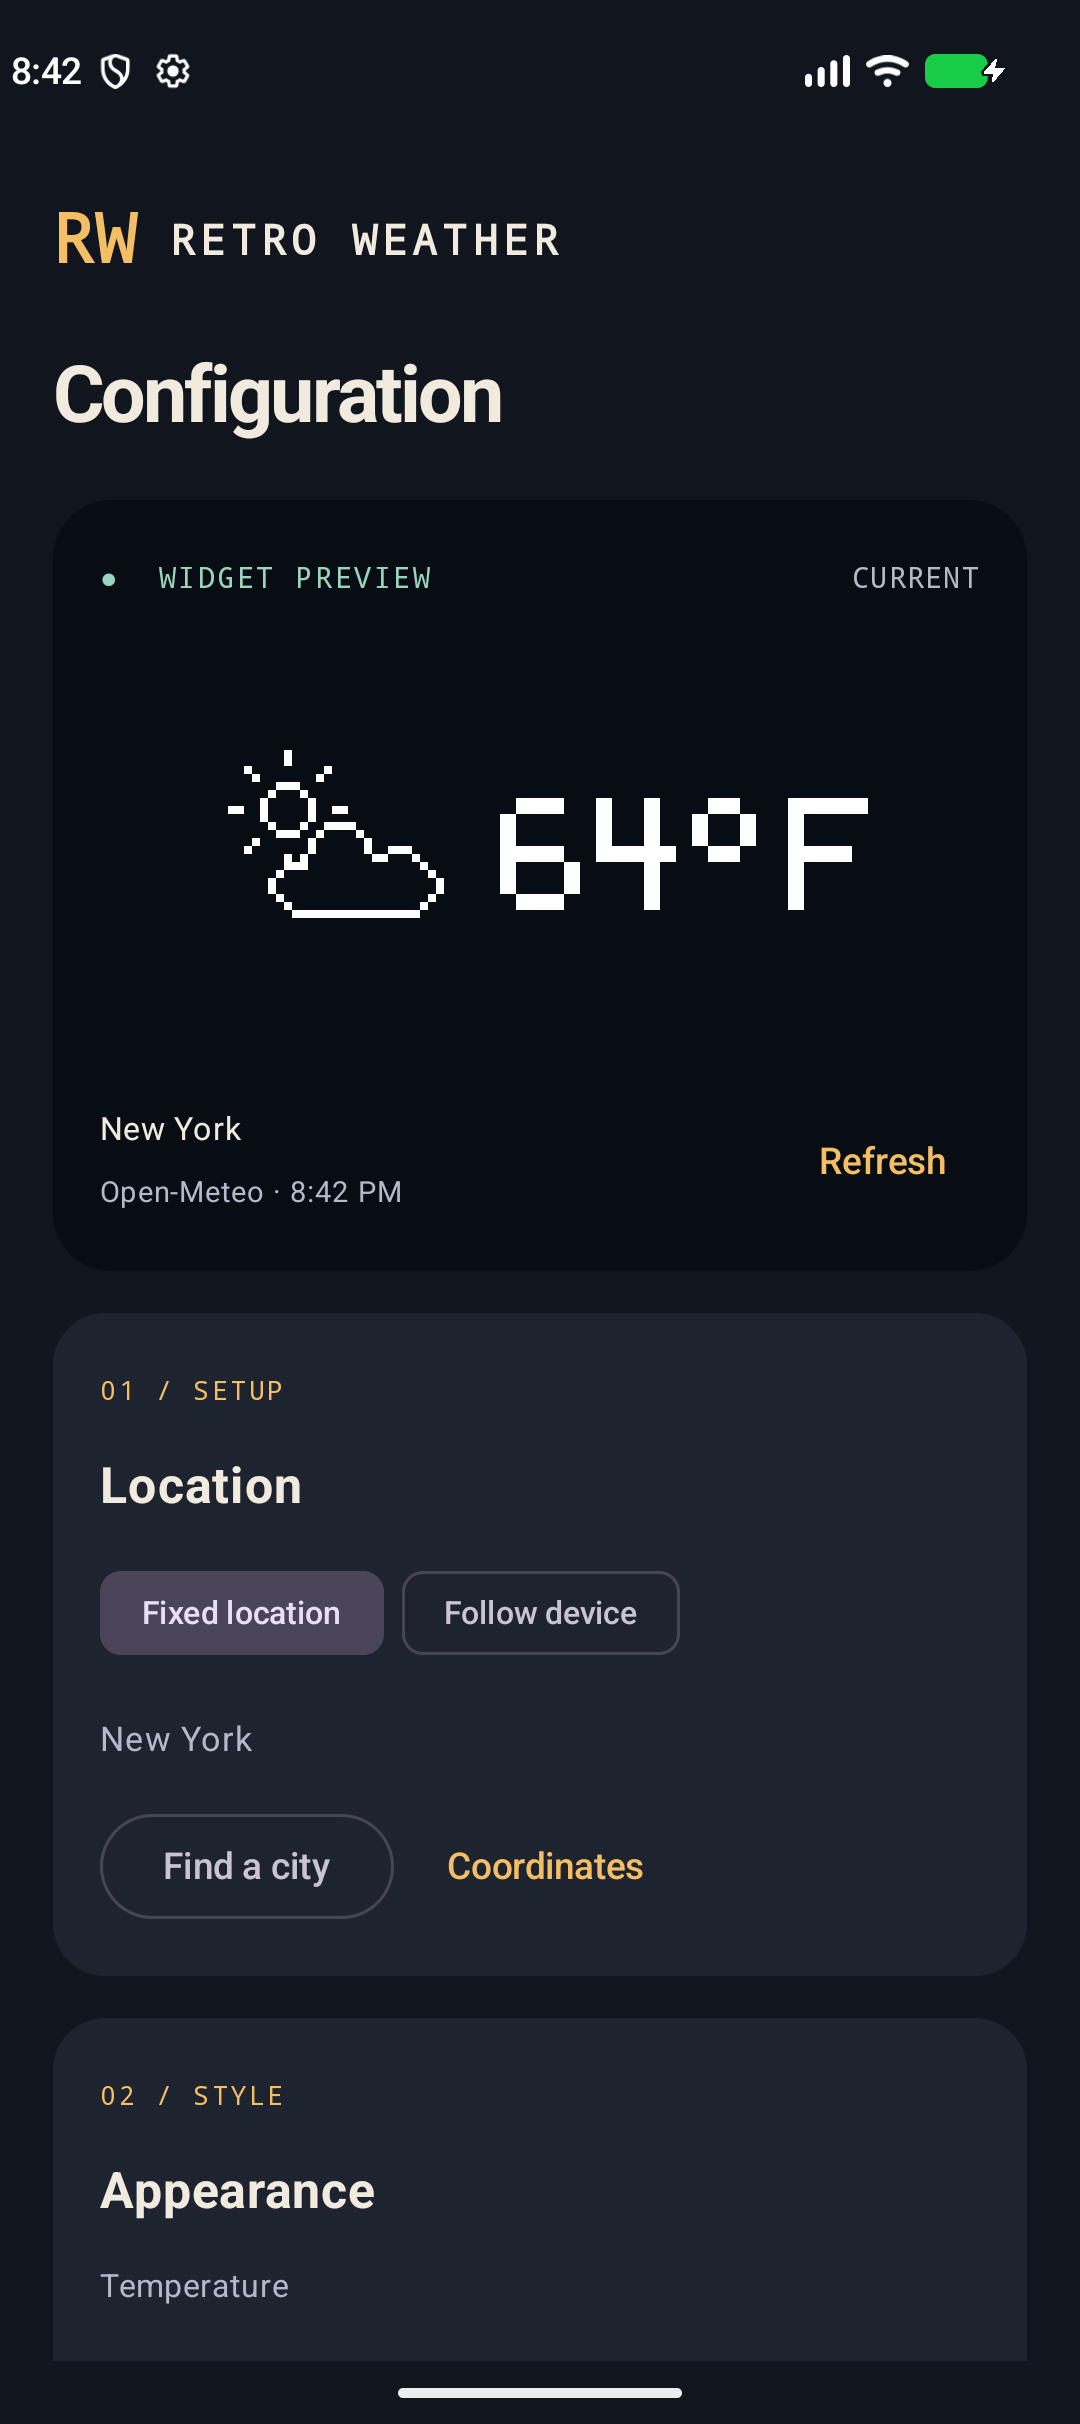
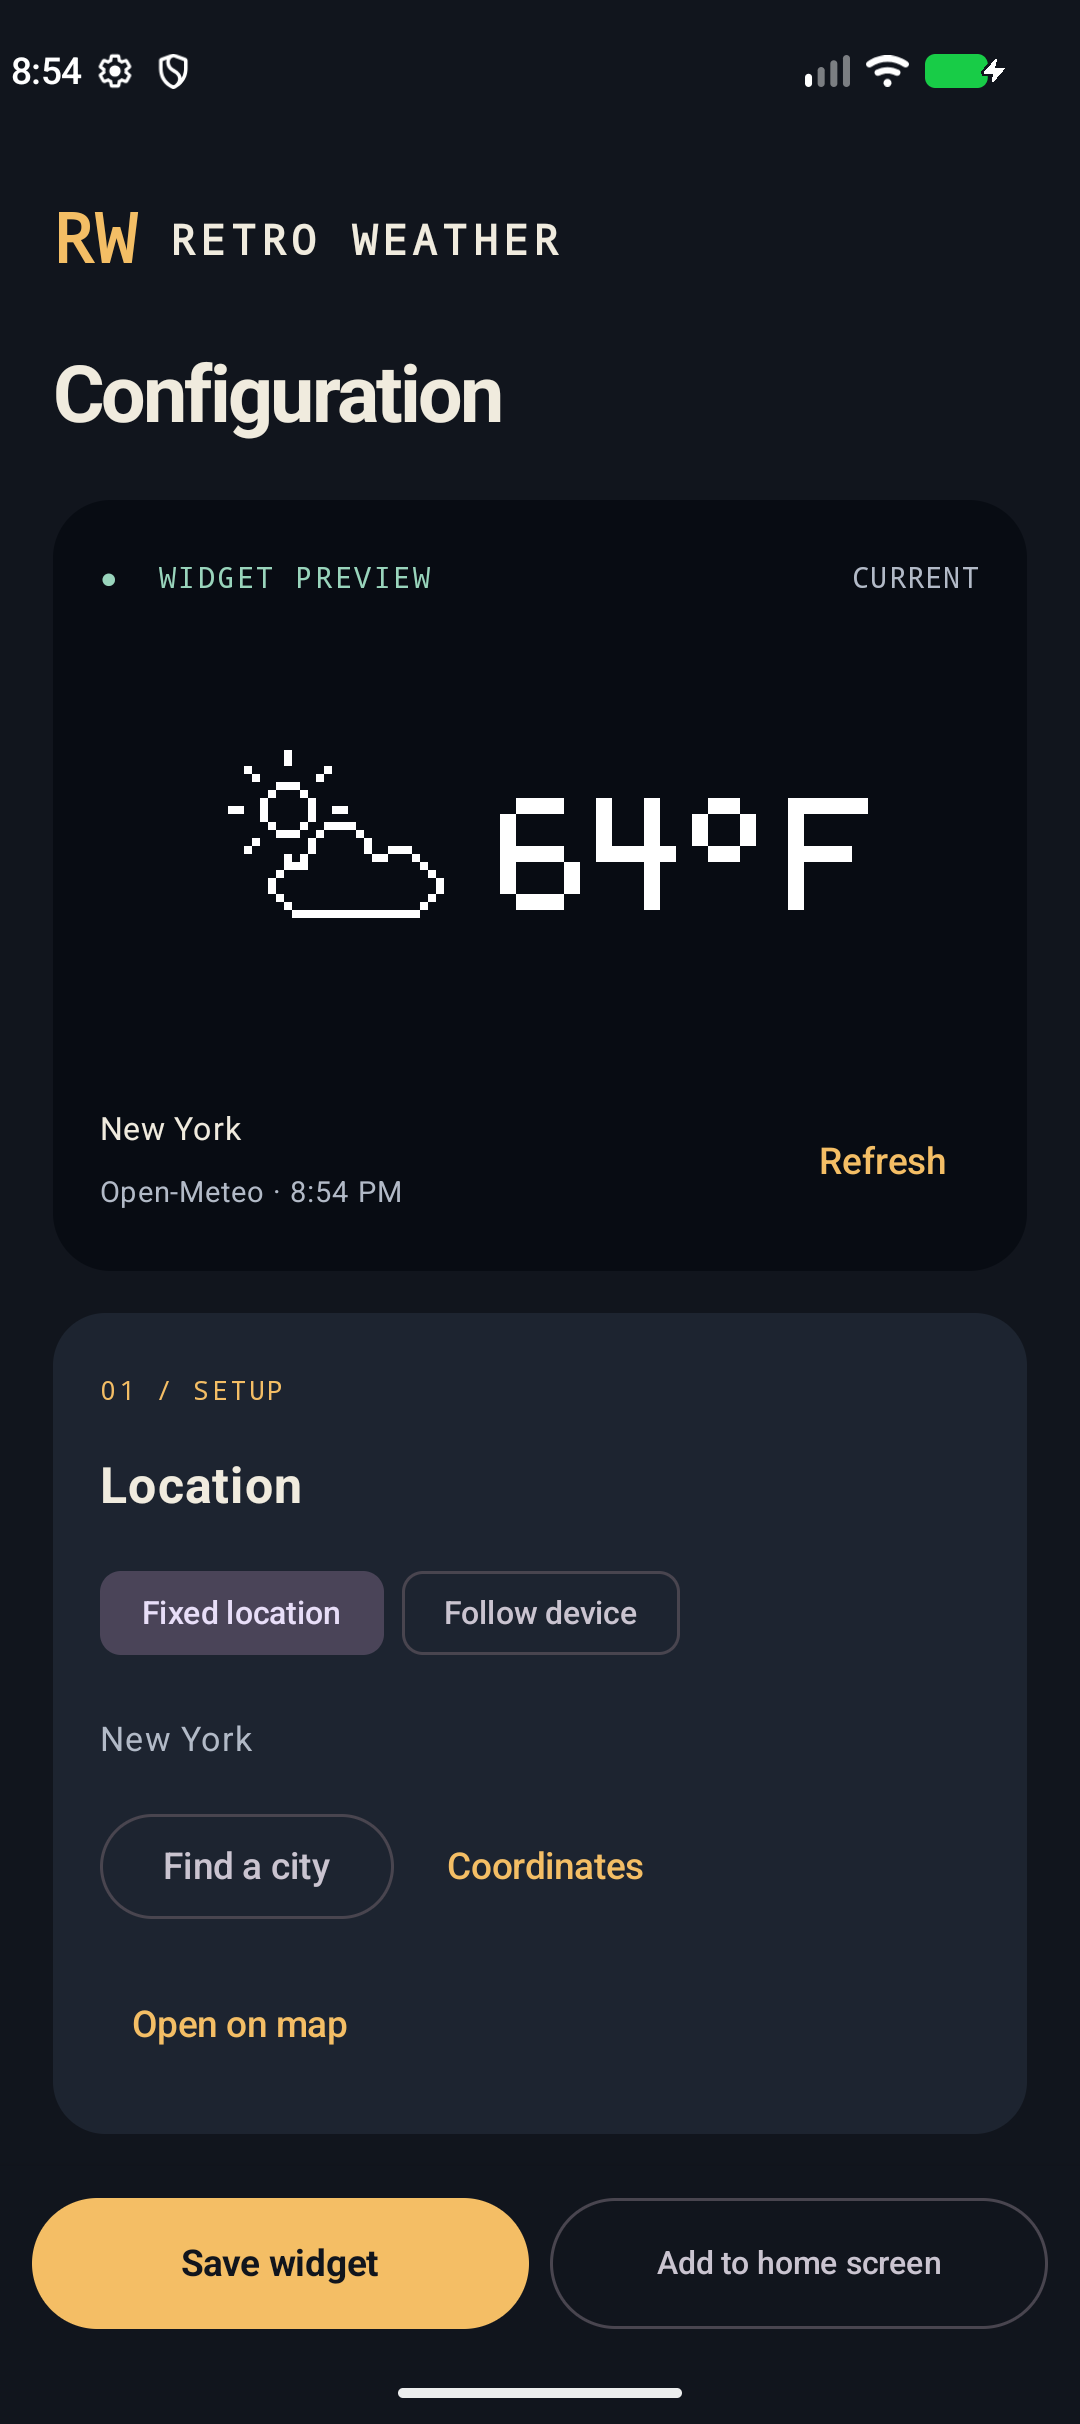
add tests, images, update readme

diff --git a/app/src/androidTest/java/com/retroweather/IntegrationTests.kt b/app/src/androidTest/java/com/retroweather/IntegrationTests.kt
@@ -1,5 +1,9 @@
 package com.retroweather
 
+import androidx.compose.ui.test.*
+import androidx.compose.ui.test.junit4.createEmptyComposeRule
+import org.junit.Rule
+
 import android.appwidget.AppWidgetManager
 import android.content.ComponentName
 import android.content.Context
@@ -26,6 +30,7 @@ import java.io.File
 
 @RunWith(AndroidJUnit4::class)
 class IntegrationTests {
+    @get:Rule val compose = createEmptyComposeRule()
     private val instrumentation = InstrumentationRegistry.getInstrumentation()
     private val context get() = instrumentation.targetContext
     private val store get() = AppStore(context)
@@ -116,21 +121,14 @@ class IntegrationTests {
         store.saveWeather(fresh())
         context.startActivity(Intent(context, MainActivity::class.java).addFlags(Intent.FLAG_ACTIVITY_NEW_TASK or Intent.FLAG_ACTIVITY_CLEAR_TASK))
         val device = UiDevice.getInstance(instrumentation)
-        assertTrue(device.wait(Until.hasObject(By.text("Configuration")), 10_000))
+        assertTrue(device.wait(Until.hasObject(By.text("Configuration")), 30_000))
         device.waitForIdle()
         device.takeScreenshot(File(context.getExternalFilesDir(null), "configuration.png"))
         export("configuration.png")
         // Scroll the real Compose screen and inspect first-release shortcut controls.
-        repeat(12) {
-            if (!device.hasObject(By.text("Choose app"))) {
-                // Avoid the horizontal carousels and widget selector inside the vertical screen.
-                device.swipe(24, device.displayHeight * 4 / 5, 24, device.displayHeight / 4, 35)
-                device.waitForIdle()
-            }
-        }
-        assertNotNull(device.findObject(By.text("Choose app")))
-        device.findObject(By.text("Choose app")).click()
-        assertTrue(device.wait(Until.hasObject(By.text("Choose tap shortcut")), 5000))
+        compose.onNodeWithTag("configuration-scroll").performScrollToNode(hasText("Choose app"))
+        compose.onNodeWithText("Choose app").assertIsDisplayed().performClick()
+        compose.onNodeWithText("Choose tap shortcut").assertIsDisplayed()
         device.pressBack()
     }
     private fun export(name: String) {

diff --git a/app/src/main/java/com/retroweather/MainActivity.kt b/app/src/main/java/com/retroweather/MainActivity.kt
@@ -1,5 +1,7 @@
 package com.retroweather
 
+import androidx.compose.ui.platform.testTag
+
 import android.Manifest
 import android.app.PendingIntent
 import android.appwidget.AppWidgetManager
@@ -204,7 +206,7 @@ class MainActivity : ComponentActivity() {
                 }
             }
         }) { insets ->
-        Column(Modifier.fillMaxSize().padding(insets).consumeWindowInsets(insets).verticalScroll(rememberScrollState()).padding(horizontal = 20.dp)) {
+        Column(Modifier.fillMaxSize().padding(insets).consumeWindowInsets(insets).testTag("configuration-scroll").verticalScroll(rememberScrollState()).padding(horizontal = 20.dp)) {
             Spacer(Modifier.height(22.dp))
             Row(verticalAlignment = Alignment.CenterVertically) {
                 Text("RW", color = Amber, fontFamily = FontFamily.Monospace, fontWeight = FontWeight.Black, fontSize = 26.sp)
@@ -279,7 +281,7 @@ class MainActivity : ComponentActivity() {
                 Toggle("Temperature", config.showTemperature) { if (it || config.showIcon) change(config.copy(showTemperature = it)) }
                 Label("Scale · ${(config.scale * 100).toInt()}%")
                 Slider(config.scale, onValueChange = { change(config.copy(scale = it)) }, valueRange = 0.4f..1f, steps = 5)
-                Row(Modifier.horizontalScroll(rememberScrollState()), horizontalArrangement = Arrangement.spacedBy(8.dp)) {
+                FlowRow(Modifier.fillMaxWidth(), horizontalArrangement = Arrangement.spacedBy(8.dp)) {
                     OutlinedButton(onClick = { dialog = "icon-style" }) { Text("Icon settings") }
                     OutlinedButton(onClick = { dialog = "text-style" }) { Text("Text settings") }
                     OutlinedButton(onClick = { dialog = "base-style" }) { Text("Background") }

diff --git a/app/src/androidTest/java/com/retroweather/DeviceSmokeTests.kt b/app/src/androidTest/java/com/retroweather/DeviceSmokeTests.kt
@@ -19,6 +19,8 @@ import kotlinx.coroutines.runBlocking
 import org.junit.Assert.*
 import org.junit.Assume.assumeTrue
 import org.junit.Before
+import org.junit.FixMethodOrder
+import org.junit.runners.MethodSorters
 import org.junit.Test
 import org.junit.runner.RunWith
 import java.io.File
@@ -26,6 +28,7 @@ import java.util.regex.Pattern
 
 /** Opt-in tests make real network requests and add a widget to the emulator launcher. */
 @RunWith(AndroidJUnit4::class)
+@FixMethodOrder(MethodSorters.NAME_ASCENDING)
 class DeviceSmokeTests {
     private val instrumentation = InstrumentationRegistry.getInstrumentation()
     private val context get() = instrumentation.targetContext

diff --git a/README.md b/README.md
@@ -1,6 +1,22 @@
 # Retro Weather
 
+[![Android build](https://github.com/adurso0747/Retro-Weather-Widget/actions/workflows/android.yml/badge.svg)](https://github.com/adurso0747/Retro-Weather-Widget/actions/workflows/android.yml)
+
 A native Kotlin Android home-screen widget with original pixel artwork, fixed or device location, free weather data, and a configurable app shortcut.
+
+![Widget appearance examples](docs/images/RetroWeather/appearance-examples.png)
+
+- Original outline and solid weather icons, with day/night variants.
+- Location search, coordinates or device location; current weather updates approximately every 30 minutes.
+- Four layouts with independent sizing, padding, alignment, gradients and opacity.
+- Transparent backgrounds, contrast outlines and cutout effects.
+- Separate settings and app shortcut for each widget.
+
+## Try it
+
+Build the debug APK below, or download the APK artifact from a successful [Android workflow run](https://github.com/adurso0747/Retro-Weather-Widget/actions/workflows/android.yml). CI artifacts become available after the workflow is committed and pushed. There is no published signed release yet.
+
+See [setup](#set-up), [development and tests](CONTRIBUTING.md), [acceptance criteria](docs/ACCEPTANCE.md), [screenshot review](docs/SCREENSHOT_REVIEW.md), and [verification results](docs/VERIFICATION.md).
 
 ## Build
 
@@ -25,6 +41,8 @@ With an emulator or USB-debugging device connected:
 ```
 
 The debug APK is signed with the local debug key. A distributable release needs a private release signing key; none is committed or generated by this project.
+
+The default connected suite excludes live-network/Pixel-launcher smoke tests. Run those explicitly using -PliveWeatherTests=true as described in [CONTRIBUTING.md](CONTRIBUTING.md). GitHub Actions builds and runs JVM/lint checks plus emulator tests on API 26 and 35; reports, screenshots and debug APKs are uploaded as workflow artifacts.
 
 ## Set up
 
@@ -64,6 +82,7 @@ Open-Meteo data are model-based current conditions; switching providers can chan
 ## Structure
 
 - `MainActivity.kt`: Compose setup, live preview, location/appearance controls, shortcut app picker, API-key entry, attribution/privacy.
+- `AppearanceEditor.kt` and `data/Appearance.kt`: Detailed appearance controls, independent color treatments, and backwards-compatible settings.
 - `data/Models.kt`: Provider-neutral weather, condition mappings, widget settings, coordinate validation.
 - `data/WeatherApi.kt`: HTTPS transport, bounded responses, response validation, geocoding, provider adapters.
 - `data/WeatherRepository.kt`: Request coalescing, cache selection, cooldown and fallback behavior.

diff --git a/docs/ACCEPTANCE.md b/docs/ACCEPTANCE.md
@@ -63,4 +63,6 @@ The five user requirements and configurable app shortcut are mandatory. See [scr
 - Kotlin source and reproducible Gradle wrapper in the repository.
 - Buildable debug APK; unit and instrumented tests; Android lint without errors.
 - README includes setup, permissions, provider terms, privacy, build steps, and limitations.
+- GitHub Actions builds the APK and runs unit tests, lint and deterministic emulator tests; debug APK and reports are available as workflow artifacts after a successful run.
+- Live-provider and launcher smoke tests are documented separately and do not require secrets in routine CI.
 - Physical-device battery/launcher validation remains a release sign-off task, not something an emulator can establish.
